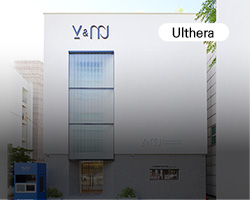
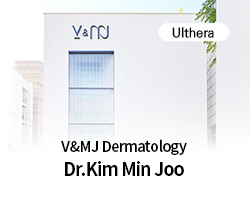
영문 피부과 썸네일 변경 250416

diff --git a/UltheraEN.html b/UltheraEN.html
@@ -88,33 +88,33 @@
                 </div>
                 <div class="hospital__bottom">
                     <ul>
-                        <li>
+                        <li style="border: 1px solid #e4e4e4;">
                             <a href="/doctor/dermatologyEN/Dr_KimMinjooEN.html">
-                                <div class="hospital__list">
+                                <div class="hospital__list" style="display: none;">
                                     <span style="font-size: 13px;">V&MJ Dermatology</span>
                                     <span>Dr.Kim Min Joo</span>
                                 </div>
                             </a>
                         </li>
-                        <li>
+                        <li style="border: 1px solid #e4e4e4;">
                             <a href="/doctor/dermatologyEN/Dr_ParkJaeYoungEN.html">
-                                <div class="hospital__list">
+                                <div class="hospital__list" style="display: none;">
                                     <span style="font-size: 13px;">Oracle Dermatology Apgujeong</span>
                                     <span>Dr.Jeyeong Park</span>
                                 </div>
                             </a>
                         </li>
-                        <li>
+                        <li style="border: 1px solid #e4e4e4;">
                             <a href="/doctor/dermatologyEN/Dr_KangSeungHeeEN.html">
-                                <div class="hospital__list">
+                                <div class="hospital__list" style="display: none;">
                                     <span style="font-size: 13px;">Leaders Dermatology Apgujeong Branch</span>
                                     <span>Dr.SeungHee Kang</span>
                                 </div>
                             </a>
                         </li>
-                        <li>
+                        <li style="border: 1px solid #e4e4e4;">
                             <a href="/doctor/dermatologyEN/Dr_LeeDongJinEN.html">
-                                <div class="hospital__list">
+                                <div class="hospital__list" style="display: none;">
                                     <span style="font-size: 13px;">BLS Clinic</span>
                                     <span>Dr.Yi Dongjin</span>
                                 </div>
@@ -165,7 +165,7 @@
         const listItems = document.querySelectorAll(".hospital__bottom li");
     
         const desktopImages = [
-            "/img/LaserThumEN/썸네일_V&MJ피부과.png",
+            "/img/LaserThumEN/썸네일_V&MJ피부과.jpg",
             "/img/LaserThumEN/썸네일_압구정오라클.jpg",
             "/img/LaserThumEN/썸네일_리더스피부과_압구정점.jpg",
             "/img/LaserThumEN/썸네일_BLS의원_강남.jpg",

diff --git a/ThermageEN.html b/ThermageEN.html
@@ -87,33 +87,33 @@
                 </div>
                 <div class="hospital__bottom">
                     <ul>
-                        <li>
+                        <li style="border: 1px solid #e4e4e4;">
                             <a href="/doctor/dermatologyEN/Dr_RoNakKyungEN.html">
-                                <div class="hospital__list">
+                                <div class="hospital__list" style="display: none;">
                                     <span style="font-size: 13px;">Leaders Dermatology Cheongdam Dosan-daero Branch</span>
                                     <span>Dr.Nark-Kyoung Rho</span>
                                 </div>
                             </a>
                         </li>
-                        <li>
+                        <li style="border: 1px solid #e4e4e4;">
                             <a href="/doctor/dermatologyEN/Dr_KimYunJeeEN.html">
-                                <div class="hospital__list">
+                                <div class="hospital__list" style="display: none;">
                                     <span style="font-size: 13px;">ID Dermatology</span>
                                     <span>Dr.Yun Jee, Kim</span>
                                 </div>
                             </a>
                         </li>
-                        <li>
+                        <li style="border: 1px solid #e4e4e4;">
                             <a href="/doctor/dermatologyEN/Dr_KimJaeHwaEN.html">
-                                <div class="hospital__list">
+                                <div class="hospital__list" style="display: none;">
                                     <span style="font-size: 13px;">Oracle Dermatology Cheongdam</span>
                                     <span>Dr.Jaehwa Kim</span>
                                 </div>
                             </a>
                         </li>
-                        <li>
+                        <li style="border: 1px solid #e4e4e4;">
                             <a href="/doctor/dermatologyEN/Dr_SeongHyeonCheolEN.html">
-                                <div class="hospital__list">
+                                <div class="hospital__list" style="display: none;">
                                     <span style="font-size: 13px;">Sinsa Doctors Dermatology</span>
                                     <span>Dr.Hyeonchul Seong</span>
                                 </div>

diff --git a/10sermarEN.html b/10sermarEN.html
@@ -88,33 +88,33 @@
                 </div>
                 <div class="hospital__bottom">
                     <ul>
-                        <li>
+                        <li style="border: 1px solid #e4e4e4;">
                             <a href="/doctor/dermatologyEN/Dr_KimJaeHwa_TenEN.html">
-                                <div class="hospital__list">
+                                <div class="hospital__list" style="display: none;">
                                     <span style="font-size: 13px;">Oracle Dermatology Cheongdam</span>
                                     <span>Dr.Jaehwa Kim</span>
                                 </div>
                             </a>
                         </li>
-                        <li>
+                        <li style="border: 1px solid #e4e4e4;">
                             <a href="/doctor/dermatologyEN/Dr_JeonHeeDaeEN.html">
-                                <div class="hospital__list">
+                                <div class="hospital__list" style="display: none;">
                                     <span style="font-size: 13px;">Banobagi Dermatologic Clinic</span>
                                     <span>Dr.Jeon-Heedae</span>
                                 </div>
                             </a>
                         </li>
-                        <li>
+                        <li style="border: 1px solid #e4e4e4;">
                             <a href="/doctor/dermatologyEN/Dr_BangSookHyeonEN.html">
-                                <div class="hospital__list">
+                                <div class="hospital__list" style="display: none;">
                                     <span style="font-size: 13px;">DR Dermatology</span>
                                     <span>Dr.Bang Sook Hyun</span>
                                 </div>
                             </a>
                         </li>
-                        <li>
+                        <li style="border: 1px solid #e4e4e4;">
                             <a href="/doctor/dermatologyEN/Dr_ShimHyeonCheolEN.html">
-                                <div class="hospital__list">
+                                <div class="hospital__list" style="display: none;">
                                     <span style="font-size: 13px;">The Cell Skin Clinic</span>
                                     <span>Dr.Hyeongcheol Sim</span>
                                 </div>

diff --git a/ScarEN.html b/ScarEN.html
@@ -88,17 +88,17 @@
                 </div>
                 <div class="hospital__bottom">
                     <ul>
-                        <li>
+                        <li style="border: 1px solid #e4e4e4;">
                             <a href="/doctor/dermatologyEN/Dr_LeeSangJooEN.html">
-                                <div class="hospital__list">
+                                <div class="hospital__list" style="display: none;">
                                     <span style="font-size: 13px;">Yonsei Star Dermatology</span>
                                     <span>Dr.Sangju Lee</span>
                                 </div>
                             </a>
                         </li>
-                        <li>
+                        <li style="border: 1px solid #e4e4e4;">
                             <a href="/doctor/dermatologyEN/Dr_SeoSoukBaeEN.html">
-                                <div class="hospital__list">
+                                <div class="hospital__list" style="display: none;">
                                     <span style="font-size: 13px;">SAS Dermatologic Clinic</span>
                                     <span>Dr.Seokbae Seo</span>
                                 </div>

diff --git a/BotoxEN.html b/BotoxEN.html
@@ -88,9 +88,9 @@
                 </div>
                 <div class="hospital__bottom">
                     <ul>
-                        <li>
+                        <li style="border: 1px solid #e4e4e4;">
                             <a href="/doctor/dermatologyEN/Dr_ParkDaeJungEN.html">
-                                <div class="hospital__list">
+                                <div class="hospital__list" style="display: none;">
                                     <span style="font-size: 13px;">Toxnfill Gangnam main branch</span>
                                     <span>Dr.Park Daejung</span>
                                 </div>

diff --git a/FillerEN.html b/FillerEN.html
@@ -88,9 +88,9 @@
                 </div>
                 <div class="hospital__bottom">
                     <ul>
-                        <li>
+                        <li style="border: 1px solid #e4e4e4;">
                             <a href="/doctor/dermatologyEN/Dr_RoYoungWooEN.html">
-                                <div class="hospital__list">
+                                <div class="hospital__list" style="display: none;">
                                     <span style="font-size: 13px;">Oracle  Dermatology Cheongdam</span>
                                     <span>Dr.Ro Young Woo</span>
                                 </div>
